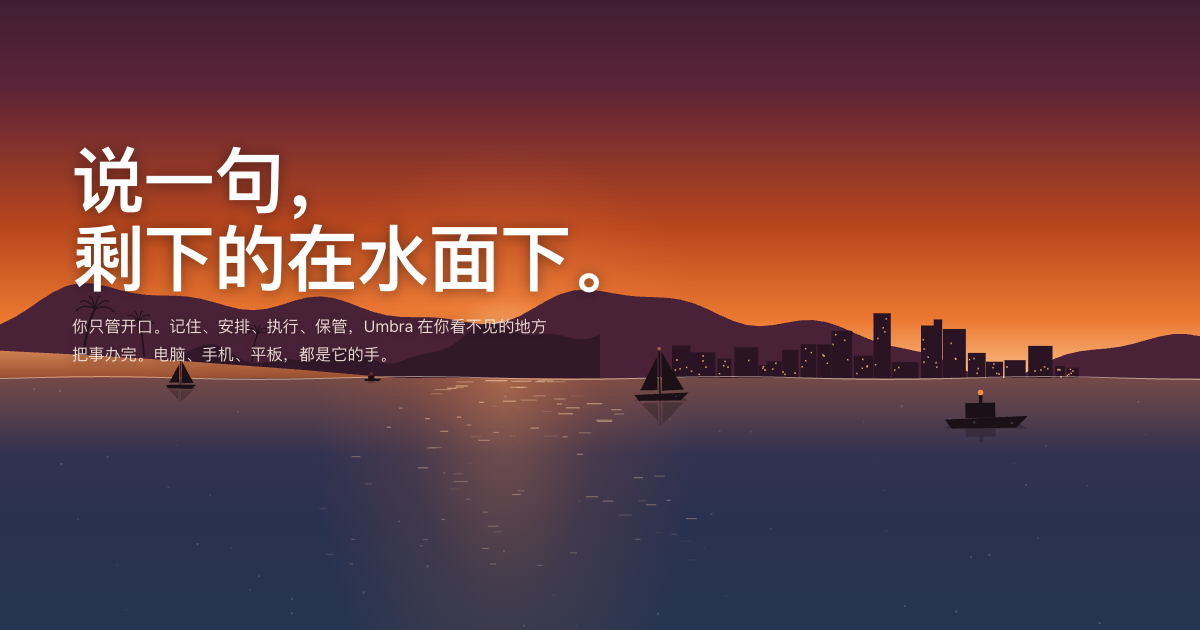
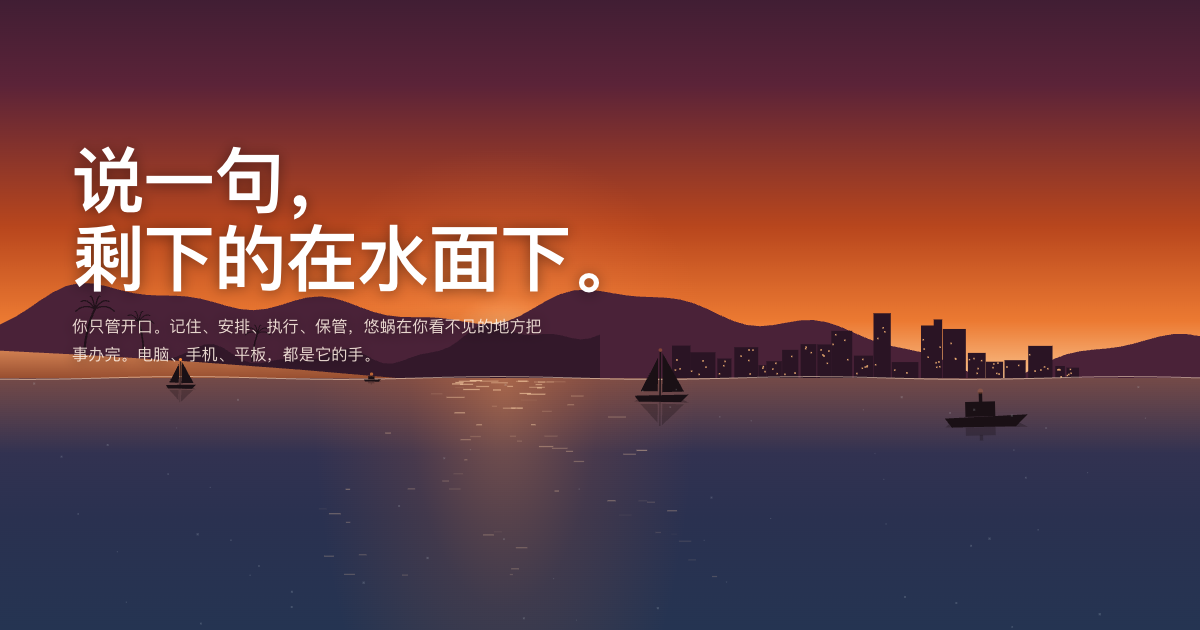
品牌名收口：对外产品名改「悠蜗」，Umbra 只作内部代号
新增 src/brand.ts 作单一来源（productName / productNameEn / codename / studioName）。
用户可见的 Umbra 字样改为引用常量：zh.ts 用模板插值，法务 Markdown 用 {productName}
占位 + remark 插件在构建时填，官方插件作者名把代号映射成品牌名；补 og:site_name，重生成 og.png。
标识符（仓库名、包名、路由、域名、环境变量、插件 id、部署目录）不改。

diff --git a/src/i18n/zh.ts b/src/i18n/zh.ts
@@ -2,13 +2,16 @@
 // 文案是占位稿：标语与各段措辞最终交 Claude Design 裁（见 doc/官网 草案 §九 W5）。
 // 写法约定：只写**已经上线**的能力；没做完的不写（例：Skill 能力模块未开工，所以没有它）。
 
+import { brand as B } from '../brand';
+
 export const zh = {
   lang: 'zh-CN',
-  brand: 'Umbra',
+  brand: B.productName,
+  homeLabel: `${B.productName}首页`,
 
   site: {
-    title: 'Umbra · 私人 AI 助手',
-    description: '你只管开口。记住、安排、执行、保管，Umbra 在你看不见的地方把事办完。电脑、手机、平板都是它的手。',
+    title: `${B.productName} · 私人 AI 助手`,
+    description: `你只管开口。记住、安排、执行、保管，${B.productName}在你看不见的地方把事办完。电脑、手机、平板都是它的手。`,
     nav: [
       { href: '/features/', label: '功能' },
       { href: '/download/', label: '下载' },
@@ -26,7 +29,7 @@ export const zh = {
             { href: '/features/', label: '全部功能' },
             { href: '/download/', label: '下载' },
             { href: '/pricing/', label: '会员与积分' },
-            { href: '/studio/', label: 'Umbra Studio' },
+            { href: '/studio/', label: B.studioName },
             { href: '/plugins/', label: '插件与主题' },
           ],
         },
@@ -46,7 +49,7 @@ export const zh = {
           ],
         },
       ],
-      copyright: '© 2026 Umbra',
+      copyright: `© 2026 ${B.productName}`,
     },
     notFound: { title: '这里什么都没有', body: '这个页面不存在，可能是链接写错了，或者它已经搬走了。', back: '回到首页' },
   },
@@ -59,11 +62,11 @@ export const zh = {
         id: 'surface',
         depth: 0,
         zone: '海平面',
-        eyebrow: 'Umbra · 私人 AI 助手',
+        eyebrow: `${B.productName} · 私人 AI 助手`,
         title: '说一句，\n剩下的在水面下。',
-        body: '你只管开口。记住、安排、执行、保管，Umbra 在你看不见的地方把事办完。电脑、手机、平板，都是它的手。',
+        body: `你只管开口。记住、安排、执行、保管，${B.productName}在你看不见的地方把事办完。电脑、手机、平板，都是它的手。`,
         cta: [
-          { href: '/download/', label: '下载 Umbra', primary: true },
+          { href: '/download/', label: `下载${B.productName}`, primary: true },
           { href: '#dive', label: '往下潜 ↓' },
         ],
       },
@@ -117,8 +120,8 @@ export const zh = {
         zone: '深渊层',
         eyebrow: '−4000 m · 深渊层 · 2 °C · 401 atm',
         title: '每台设备，连在同一张网上',
-        body: '手机上说，电脑上做。人不在电脑前，也能远程看见、操作它。能力用插件扩展；想自己做设计，还有跑在本机的 Umbra Studio。',
-        chips: ['多设备协同', '远程控制', '插件与主题', 'Umbra Studio'],
+        body: `手机上说，电脑上做。人不在电脑前，也能远程看见、操作它。能力用插件扩展；想自己做设计，还有跑在本机的${B.studioName}。`,
+        chips: ['多设备协同', '远程控制', '插件与主题', B.studioName],
         more: { href: '/features/devices/', label: '了解多设备与远程控制' },
       },
       {
@@ -138,7 +141,7 @@ export const zh = {
 
   features: {
     title: '功能',
-    lead: '对话只是水面。下面这些，是 Umbra 每天替你做的事。',
+    lead: `对话只是水面。下面这些，是${B.productName}每天替你做的事。`,
     moreLabel: '了解更多',
     shotPending: '截图整理中',
     related: '相关功能',
@@ -149,7 +152,7 @@ export const zh = {
         short: '交代一件事，它拆步骤、派设备、实时回报；到点的事自己醒来做。',
         eyebrow: '对话 · 任务 · 执勤表 · 提醒',
         title: '交代一件事，\n它分步做完。',
-        lead: '你用一句话说清楚要什么。Umbra 把它拆成步骤，挑合适的设备去做，每一步都告诉你进展到哪了。',
+        lead: `你用一句话说清楚要什么。${B.productName}把它拆成步骤，挑合适的设备去做，每一步都告诉你进展到哪了。`,
         shot: 'chat-task',
         phone: 'ios-2',
         chapters: [
@@ -238,7 +241,7 @@ export const zh = {
         short: '每台设备报上自己的能力，服务端按需派活。',
         eyebrow: '设备能力 · 派活 · 同步',
         title: '手机上说，\n电脑上做。',
-        lead: '每台设备都告诉 Umbra 自己能做什么：截图、读写文件、操作电脑、写代码。你在哪台设备上开口都行，活会派给能做的那台。',
+        lead: `每台设备都告诉${B.productName}自己能做什么：截图、读写文件、操作电脑、写代码。你在哪台设备上开口都行，活会派给能做的那台。`,
         shot: 'devices',
         phone: '',
         chapters: [
@@ -272,7 +275,7 @@ export const zh = {
   },
 
   download: {
-    title: '下载 Umbra',
+    title: `下载${B.productName}`,
     lead: '在你的每一台设备上装上它。账号通用，数据在设备之间同步。',
     detected: '你正在用',
     pending: '内测中',
@@ -285,7 +288,7 @@ export const zh = {
       { key: 'ios', name: 'iPhone 与 iPad', req: 'iOS 16 及以上', action: '在 App Store 获取' },
       { key: 'android', name: 'Android', req: 'Android 移植中', action: '下载 APK' },
     ],
-    studio: { title: '还想自己做设计？', body: 'Umbra Studio 是跑在你电脑上的设计软件，稿子存在本地。', link: '了解 Umbra Studio' },
+    studio: { title: '还想自己做设计？', body: `${B.studioName} 是跑在你电脑上的设计软件，稿子存在本地。`, link: `了解${B.studioName}` },
     contactTitle: '加入内测',
     contactBody: '内测名额有限。把你用的设备和想用它做什么发给我们：',
   },
@@ -311,7 +314,7 @@ export const zh = {
     credits: {
       title: '积分能买什么',
       items: [
-        { name: '插件', body: '在 Umbra Studio 的插件市场里买断，一次购买一直能用。' },
+        { name: '插件', body: `在${B.studioName} 的插件市场里买断，一次购买一直能用。` },
         { name: '额度重置卡', body: '额度用完了等不及重置，用一张马上回满。' },
         { name: '加量包', body: '这一周要多用一点，就加一点。' },
       ],
@@ -326,22 +329,23 @@ export const zh = {
   },
 
   studio: {
-    eyebrow: 'Umbra Studio',
+    eyebrow: B.studioName,
     title: '跑在你电脑上的\n设计软件。',
     lead: '创建和管理设计项目、编辑设计稿。最大的不同是：稿子存在你自己的电脑上。',
     shot: 'studio',
+    shotAlt: `${B.studioName} 界面`,
     points: [
       { title: '一份文件三种身份', body: '设计稿就是 .dc.html：它同时是设计稿、规范出处和能直接运行的原型。' },
       { title: '三种改法', body: '手动选中元素改，选中后让 AI 改，或者直接和 AI 说你要什么。' },
       { title: '也是一个 MCP 服务', body: '同一套能力暴露成本地 MCP，Claude Code、Codex 这类工具可以直接连上来改稿。' },
       { title: '插件市场', body: 'Markdown、代码、网页预览随软件一起；更多编辑器在插件市场里装。' },
     ],
-    cta: { href: '/download/', label: '下载 Umbra' },
+    cta: { href: '/download/', label: `下载${B.productName}` },
   },
 
   plugins: {
     title: '插件与主题',
-    lead: '插件给 Umbra Studio 加新的编辑器和工具；主题换掉 Umbra 三端的配色。在客户端的市场里安装或购买。',
+    lead: `插件给${B.studioName} 加新的编辑器和工具；主题换掉${B.productName}三端的配色。在客户端的市场里安装或购买。`,
     pluginsTitle: '插件',
     themesTitle: '主题',
     builtin: '随软件附带',
@@ -356,7 +360,7 @@ export const zh = {
 
   changelog: {
     title: '更新日志',
-    lead: 'Umbra 最近做了什么。按日期倒序，同一天跨好几个端的改动合在一起写。',
+    lead: `${B.productName}最近做了什么。按日期倒序，同一天跨好几个端的改动合在一起写。`,
   },
 
   help: {
@@ -395,11 +399,11 @@ export const zh = {
   },
 
   about: {
-    title: '关于 Umbra',
-    lead: 'Umbra 是拉丁语里「本影」的意思：光照不到的那一块。',
+    title: `关于${B.productName}`,
+    lead: `${B.productName}是一款私人 AI 助手。`,
     body: [
       '我们想做的是一个真正替你干活的助手。你在水面上说一句话，剩下的在水面下发生：拆任务、派设备、记下来、存好。你看不见它在忙，但它一直在。',
-      'Umbra 由一个很小的团队开发，服务端、电脑端、手机端和 Studio 都是自己写的。我们在意两件事：你的数据只用来帮你做事，以及能在本机做完的事尽量不上云。',
+      `${B.productName}由一个很小的团队开发，服务端、电脑端、手机端和 Studio 都是自己写的。我们在意两件事：你的数据只用来帮你做事，以及能在本机做完的事尽量不上云。`,
     ],
     contactTitle: '联系方式',
   },

diff --git a/src/lib/plugins.ts b/src/lib/plugins.ts
@@ -1,5 +1,6 @@
 // 插件页的数据：构建时从服务端公开接口取（GET /plugins/catalog，不要凭证），取不到用离线清单。
 // normalize 是纯函数，测试见 tests/plugins.test.ts。
+import { brand } from '../brand';
 
 export interface PluginEntry {
   id: string;
@@ -30,6 +31,8 @@ export interface Swatch {
 }
 
 const str = (v: unknown): string => (typeof v === 'string' ? v : '');
+/** 官方插件的作者：服务端回的是内部代号 Umbra（或空），页面上显示对外品牌名。 */
+const author = (v: unknown): string => { const a = str(v); return !a || a === brand.codename ? brand.productName : a; };
 const num = (v: unknown): number => (typeof v === 'number' && Number.isFinite(v) && v >= 0 ? Math.round(v) : 0);
 /** 只放行 #rgb / #rrggbb / #rrggbbaa —— 色值要进 style 属性，别的一律丢掉。 */
 const color = (v: unknown): string | undefined => (typeof v === 'string' && /^#([0-9a-f]{3}|[0-9a-f]{6}|[0-9a-f]{8})$/i.test(v) ? v : undefined);
@@ -50,7 +53,7 @@ export function normalizePlugins(raw: unknown): PluginEntry[] {
     if (!id || !name) return [];
     return [{
       id, name,
-      author: str(o.author) || 'Umbra',
+      author: author(o.author),
       version: str(o.version),
       price: num(o.price),
       builtin: o.builtin === true || o.builtin === 1,
@@ -69,7 +72,7 @@ export function normalizeThemes(raw: unknown): ThemeEntry[] {
     const id = str(o.id), name = str(o.name);
     if (!id || !name) return [];
     const p = (o.preview && typeof o.preview === 'object' ? o.preview : {}) as Record<string, unknown>;
-    return [{ id, name, author: str(o.author) || 'Umbra', price: num(o.price), brief: str(o.brief), preview: { light: swatch(p.light), dark: swatch(p.dark) } }];
+    return [{ id, name, author: author(o.author), price: num(o.price), brief: str(o.brief), preview: { light: swatch(p.light), dark: swatch(p.dark) } }];
   });
 }
 

diff --git a/tests/plugins.test.ts b/tests/plugins.test.ts
@@ -1,16 +1,19 @@
 import { describe, expect, it } from 'vitest';
 import { normalizePlugins, normalizeThemes } from '../src/lib/plugins';
 import snapshot from '../src/data/plugins-snapshot.json';
+import { brand } from '../src/brand';
 
 describe('normalizePlugins', () => {
   it('离线清单三条内置插件都能读出来', () => {
     const list = normalizePlugins(snapshot);
     expect(list.map((x) => x.id)).toEqual(['com.umbra.markdown', 'com.umbra.code', 'com.umbra.html']);
     expect(list.every((x) => x.builtin)).toBe(true);
+    // 离线清单里官方作者写的是内部代号，页面上要显示对外品牌名
+    expect(list.every((x) => x.author === brand.productName)).toBe(true);
   });
   it('服务端回 builtin=1、缺字段也不炸', () => {
     const [p] = normalizePlugins({ plugins: [{ id: 'a', name: 'A', builtin: 1 }] });
-    expect(p).toMatchObject({ id: 'a', name: 'A', builtin: true, author: 'Umbra', price: 0, formats: [] });
+    expect(p).toMatchObject({ id: 'a', name: 'A', builtin: true, author: brand.productName, price: 0, formats: [] });
   });
   it('没 id / 没名字 / 负价格 / 非对象被处理掉', () => {
     const list = normalizePlugins({ plugins: [{ id: '', name: 'x' }, { id: 'b' }, null, 3, { id: 'c', name: 'C', price: -5 }] });

diff --git a/src/brand.ts b/src/brand.ts
@@ -1,0 +1,20 @@
+// 品牌名单一来源（sam 10-22 拍板）：对外叫「悠蜗」，Umbra 只是内部代号。
+// 用户看得见的品牌字样一律从这里取；仓库名、包名、路由、域名、环境变量、插件 id 等标识符不跟着改。
+
+const productName = '悠蜗';
+
+export const brand = {
+  /** 对外产品名。 */
+  productName,
+  /** 英文名：还没定，先占位（en.ts 上线前要换掉）。 */
+  productNameEn: 'Youwo',
+  /** 内部代号：只出现在代码标识符里，页面上不显示。 */
+  codename: 'Umbra',
+  /** 设计软件的对外名。 */
+  studioName: `${productName} Studio`,
+};
+
+/** 把文本里的 {productName} / {studioName} 换成品牌名（法务 Markdown 这类不能写 TS 插值的地方用）。 */
+export function fillBrand(text: string): string {
+  return text.replace(/\{(productName|productNameEn|studioName)\}/g, (_, k: 'productName' | 'productNameEn' | 'studioName') => brand[k]);
+}

diff --git a/src/data/changelog.ts b/src/data/changelog.ts
@@ -2,6 +2,8 @@
 // 来源：doc/ 各设计文档的「已实现」状态行（2026-10-19 整理）。以后发布时往最上面加一条。
 // P4 再做自动生成（从各仓发布说明拉），见 doc/官网 草案 §五。
 
+import { brand } from '../brand';
+
 export interface Release {
   date: string;
   title: string;
@@ -34,7 +36,7 @@ export const releases: Release[] = [
     items: [
       '账号页新增会员面板：AI 额度按 5 小时和每周两档，用多少看百分比。',
       '商城：用积分买额度重置卡、加量包；会员买积分商品打折。',
-      'Umbra Studio 插件市场：插件可以买断，部分插件随会员赠送。',
+      `${brand.studioName} 插件市场：插件可以买断，部分插件随会员赠送。`,
     ],
   },
   {

diff --git a/src/lib/remark-brand.ts b/src/lib/remark-brand.ts
@@ -1,0 +1,14 @@
+// 法务 Markdown 里的 {productName} / {studioName} 占位，构建时换成 src/brand.ts 的品牌名。
+// 只换正文文本节点；行内代码（环境变量名等标识符）不动。
+import { fillBrand } from '../brand';
+
+interface MdNode { type: string; value?: string; children?: MdNode[] }
+
+function walk(node: MdNode): void {
+  if (node.type === 'text' && typeof node.value === 'string') node.value = fillBrand(node.value);
+  node.children?.forEach(walk);
+}
+
+export default function remarkBrand() {
+  return (tree: MdNode) => walk(tree);
+}

diff --git a/src/legal/terms.md b/src/legal/terms.md
@@ -1,15 +1,15 @@
 ---
-title: Umbra 用户协议
+title: "{productName}用户协议"
 updated: 2026-10-19
 draft: true
 ---
 
-> **草案，未经法务审核。** 本文按 Umbra 当前代码与设计文档起草，正式发布前须由律师审阅；文中【待填】为尚未确定的信息，【待核】为需要再确认的事实或合规缺口。
+> **草案，未经法务审核。** 本文按{productName}当前代码与设计文档起草，正式发布前须由律师审阅；文中【待填】为尚未确定的信息，【待核】为需要再确认的事实或合规缺口。
 
 **生效日期：**【待填：生效日期】
 **更新日期：** 2026 年 10 月 19 日
 
-本协议是你与【待填：运营主体全称】（以下称「我们」）之间关于使用 Umbra 的约定。Umbra 包括电脑端、iPhone 端、Android 端（开发中）、设计软件 UmbraStudio，以及支撑它们的 Umbra 服务器（以下合称「本服务」）。
+本协议是你与【待填：运营主体全称】（以下称「我们」）之间关于使用{productName}的约定。{productName}包括电脑端、iPhone 端、Android 端（开发中）、设计软件{studioName}，以及支撑它们的{productName}服务器（以下合称「本服务」）。
 
 **请仔细阅读，特别是加粗的条款。**这些条款涉及会员自动续费、积分不退现金、责任限制和争议解决。你注册账号、登录、购买会员或积分，即表示你已阅读并同意本协议和《隐私政策》。如果不同意，请不要注册；你仍然可以不登录，单机使用客户端。
 
@@ -17,13 +17,13 @@ draft: true
 
 ## 一、本服务是什么
 
-Umbra 有三种用法，彼此独立：
+{productName}有三种用法，彼此独立：
 
 | 用法 | 你能得到什么 |
 | --- | --- |
 | **不登录（单机）** | 提醒、常用语、保险箱、剪贴板、截图、启动器、生活账本、灵感等本机功能，数据只在你的设备上 |
 | **登录** | 一个账号；新账号送一次会员试用（见第 3.3 节）；可以充值积分、购买会员 |
-| **开通会员** | 联网功能（多设备同步、可信设备网络、提醒送达、知识库云端、保险箱同步、远程控制）、服务端 AI 额度、本机命令行 AI 工具接入、更大的存储容量、UmbraStudio 随会员赠送的插件、用积分买东西时的会员折扣 |
+| **开通会员** | 联网功能（多设备同步、可信设备网络、提醒送达、知识库云端、保险箱同步、远程控制）、服务端 AI 额度、本机命令行 AI 工具接入、更大的存储容量、{studioName} 随会员赠送的插件、用积分买东西时的会员折扣 |
 
 登录只是让账号存在，不自带会员，也不送积分。充值积分和购买会员一定要先登录，两者互不依赖：你可以只充值、只买会员、两样都买，或者都不买。
 
@@ -54,7 +54,7 @@ Umbra 有三种用法，彼此独立：
 - **远程控制中继流量**：每月【待核：初定 8 GB】。能直连的会话不计流量；中继流量用完后，只能尝试直连，连不上时改为每隔几秒传一张截图（快照）。
 - **存储容量**：会员【待核：初定 1 GB】，没有会员的登录用户【待核：初定 100 MB】。容量包括你存在服务器上的全部内容：聊天图片、记账凭证、知识库文档、保险箱密文、回收站里的内容。
 - **本机命令行 AI 工具接入**：电脑端可以调用你自己安装的命令行 AI 工具，这部分不消耗服务端 AI 额度。
-- **UmbraStudio 随会员赠送的插件**：赠送哪些插件由我们配置，目前计划是 `.md`、`.txt` 这类文本编辑插件。
+- **{studioName} 随会员赠送的插件**：赠送哪些插件由我们配置，目前计划是 `.md`、`.txt` 这类文本编辑插件。
 - **会员折扣**：用积分购买商品和插件时按会员价扣除【待核：初定 95 折，后台可调】。**折扣不适用于服务端 AI 额度。**
 
 具体档位、价格和每一档的额度，以购买页面展示的为准。【待填：正式价格。设计草案的初值是月付 15 元、年付 148 元，只设一个档位。】
@@ -97,7 +97,7 @@ Umbra 有三种用法，彼此独立：
 
 ## 四、积分（预付值）
 
-1. **积分是你预付的余额**，用来购买 UmbraStudio 的插件，以及商城里会员以外的商品，例如重置卡、加量包、中继流量包。**积分和服务端 AI 额度无关**，不能用来抵扣 AI 消耗。
+1. **积分是你预付的余额**，用来购买{studioName} 的插件，以及商城里会员以外的商品，例如重置卡、加量包、中继流量包。**积分和服务端 AI 额度无关**，不能用来抵扣 AI 消耗。
 2. **兑换比例：1 元 = 10 积分。**【待核：充值档位，草案为 10 / 30 / 98 / 198 元。】充值不送积分。
 3. **积分不过期。**
 4. **积分不能兑换成现金，不能提现，不能转让给其他账号**，也不能在账号之间合并。【待核：「不能转让 / 合并」目前没有代码依据，属于新约定。】
@@ -116,9 +116,9 @@ Umbra 有三种用法，彼此独立：
 - 重置卡和加量包**分会员档位**，只对购买时对应的档位有效，需要你有会员才能使用。它们**不延长会员期限**，会员到期时一并作废。每件商品都写明了买后多少天内可用（例如重置卡初定 30 天），过期作废。
 - 用的时候，如果这张卡不会产生任何效果（例如额度窗口还没开始计时，或者已用额度本来就是 0），系统会拦住你，不会白白用掉。
 
-### 5.2 UmbraStudio 插件授权
+### 5.2 {studioName} 插件授权
 
-1. **你买到的是插件的使用许可，不是插件本身的所有权。**许可绑定你的账号，由我们的服务器签发，UmbraStudio 在你的设备上离线验证。
+1. **你买到的是插件的使用许可，不是插件本身的所有权。**许可绑定你的账号，由我们的服务器签发，{studioName} 在你的设备上离线验证。
 2. 授权有几种来源：**积分买断**（长期有效）、**限时免费**（到活动截止日）、**会员赠送**（到会员到期日）、我们赠送或后台开通（按开通时写明的期限）。同一个插件有多条授权的，以期限最长的那条为准。
 3. 买断的插件以后下架，你已经获得的授权仍然有效。【待核：如果插件因为安全问题被撤下，能否吊销已有授权，吊销后是否退积分。】某个插件被移出会员赠送清单的，已经签发的授权用到原定期限为止。
 4. 你不得破解、绕过、伪造或分享许可证，也不得把插件或许可证转售给他人。【待核：一个许可证最多能在几台设备上用，以及设备解绑的规则。】
@@ -167,7 +167,7 @@ Umbra 有三种用法，彼此独立：
 3. 未经授权访问、控制他人的电脑或账号；
 4. 用本服务生成、传播诈骗、恶意代码、垃圾信息，或者用于网络攻击；
 5. 破解、反向工程、绕过本服务的额度、计费、许可证或安全机制；用脚本或程序批量注册账号、薅试用、刷额度；
-6. 把服务端 AI 的接口（包括给 UmbraStudio 用的兼容接口）转售给他人，或者用来给第三方提供服务；
+6. 把服务端 AI 的接口（包括给{studioName} 用的兼容接口）转售给他人，或者用来给第三方提供服务；
 7. 上传恶意文件，或者用本服务存储、分发违法内容；
 8. 干扰、破坏本服务的正常运行，例如发送超出正常使用的请求压垮服务器。
 
@@ -177,9 +177,9 @@ Umbra 有三种用法，彼此独立：
 
 ## 九、你的内容与知识产权
 
-1. 你在 Umbra 里输入、上传、生成的内容（聊天、记账、文档、设计文件等），**权利归你或者原权利人**。你授权我们在提供本服务所必需的范围内存储、处理、传输这些内容（例如同步到你的其他设备、发给大模型服务商生成回复）。这项授权不允许我们把你的内容用于其他目的。【待核：我们和大模型服务商之间，是否约定了不得用你的内容训练模型。如果没有，要在这里和《隐私政策》里写明。】
+1. 你在{productName}里输入、上传、生成的内容（聊天、记账、文档、设计文件等），**权利归你或者原权利人**。你授权我们在提供本服务所必需的范围内存储、处理、传输这些内容（例如同步到你的其他设备、发给大模型服务商生成回复）。这项授权不允许我们把你的内容用于其他目的。【待核：我们和大模型服务商之间，是否约定了不得用你的内容训练模型。如果没有，要在这里和《隐私政策》里写明。】
 2. 对于 AI 生成的内容，在法律允许的范围内，我们不主张权利。
-3. Umbra 软件、界面、文档、商标，以及我们自己开发的插件和主题，知识产权归我们所有。我们给你的是一项个人的、不可转让、不可再许可的使用许可。
+3. {productName}软件、界面、文档、商标，以及我们自己开发的插件和主题，知识产权归我们所有。我们给你的是一项个人的、不可转让、不可再许可的使用许可。
 4. 第三方插件、主题和开源组件的权利归原权利人，适用它们各自的许可协议。
 
 ---
